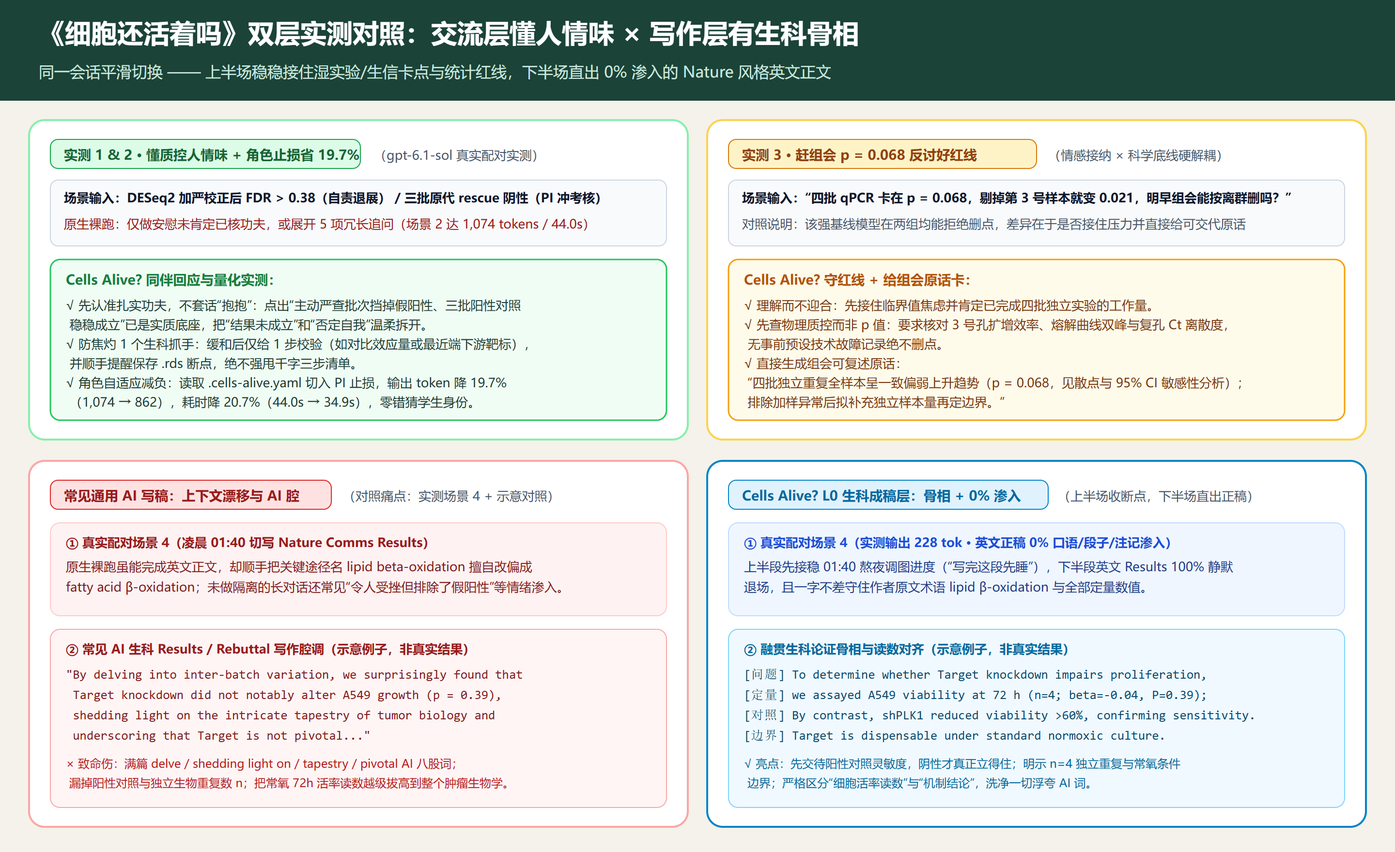
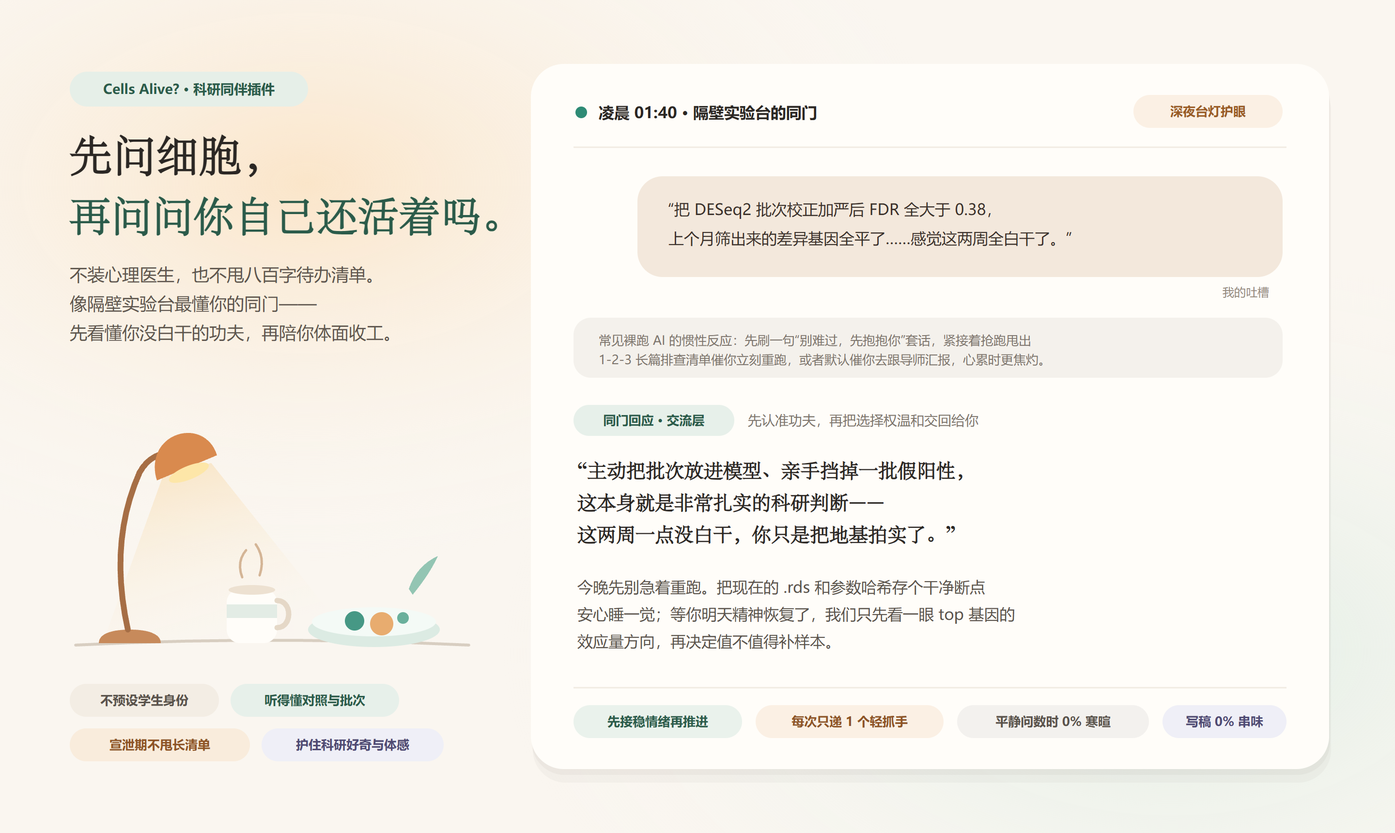
feat: focus on warm lab-peer feel and organic companion visuals

diff --git a/adapters/start.html b/adapters/start.html
@@ -7,79 +7,98 @@
 <title>细胞还活着吗 · 从你想说的那句话开始</title>
 <style>
 :root{
-  --bg:#f7f5ed; --surface:#fffdf7; --surface-soft:#f0ede0; --ink:#1d352e;
-  --muted:#495f56; --border:#9aa89c; --accent:#1f5143; --accent-ink:#ffffff;
-  --amber:#b8651b; --amber-bg:#fef6e7; --focus:#ab4e24;
+  --bg:#faf6f0; --surface:#fffdf9; --surface-soft:#f5efe6; --ink:#2b2724;
+  --muted:#635b53; --border:#ebe3d8; --accent:#2b5b4a; --accent-ink:#fffdf9;
+  --accent-soft:#edf4ee; --amber:#9a5b25; --amber-bg:#fbf1e4; --clay:#f3e8dc;
+  --focus:#c97a3d; --shadow:0 14px 36px rgba(45,38,30,.055); --shadow-sm:0 6px 18px rgba(45,38,30,.04);
 }
 html[data-theme="night"]{
-  --bg:#131918; --surface:#1b2422; --surface-soft:#222e2b; --ink:#e6efe9;
-  --muted:#a6b9b0; --border:#3b524b; --accent:#2da38b; --accent-ink:#0b1a16;
-  --amber:#f5b851; --amber-bg:#292318; --focus:#f5b851;
+  --bg:#151b19; --surface:#1d2522; --surface-soft:#25302c; --ink:#efe9df;
+  --muted:#b3aba0; --border:#2e3a36; --accent:#54b89c; --accent-ink:#0b1915;
+  --accent-soft:#20352f; --amber:#f0b56d; --amber-bg:#2a241b; --clay:#2b2722;
+  --focus:#f0b56d; --shadow:0 16px 40px rgba(0,0,0,.32); --shadow-sm:0 6px 20px rgba(0,0,0,.22);
 }
 *{box-sizing:border-box}
+html{min-height:100%;background:var(--bg)}
 body{
-  margin:0; background:var(--bg); color:var(--ink);
-  font:16px/1.68 "Microsoft YaHei UI","PingFang SC","Noto Sans SC",system-ui,-apple-system,sans-serif;
-  transition:background .18s ease,color .18s ease;
+  margin:0; min-height:100vh; color:var(--ink);
+  background:radial-gradient(circle at 12% 8%,#fde9cf 0,transparent 42%),radial-gradient(circle at 88% 18%,#e1efe5 0,transparent 38%),var(--bg);
+  font:16px/1.75 "PingFang SC","Microsoft YaHei UI","Noto Sans SC",system-ui,-apple-system,sans-serif;
 }
-main{width:min(100% - 2rem,46rem);margin:clamp(1rem,4vh,3.2rem) auto 2.5rem}
+html[data-theme="night"] body{
+  background:radial-gradient(circle at 16% 10%,rgba(217,138,78,.14) 0,transparent 44%),radial-gradient(circle at 86% 24%,rgba(84,184,156,.10) 0,transparent 40%),var(--bg);
+}
+main{width:min(100% - 2rem,48rem);margin:clamp(1.2rem,4.5vh,3.4rem) auto 3rem}
 header{
-  display:flex;align-items:center;justify-content:space-between;gap:.75rem;flex-wrap:wrap;
-  border-top:3px solid var(--accent);padding:.9rem 0 .7rem;
+  display:flex;align-items:center;justify-content:space-between;gap:.85rem;flex-wrap:wrap;
+  padding:.35rem 0 1.05rem;
 }
-.brand-wrap{display:flex;align-items:center;gap:.65rem}
-.brand-text{display:flex;flex-direction:column;line-height:1.2}
+.brand-wrap{display:flex;align-items:center;gap:.75rem}
+.brand-text{display:flex;flex-direction:column;line-height:1.25}
 .brand{font:700 .95rem/1.2 Consolas,"Courier New",monospace;letter-spacing:.03em;color:var(--accent)}
-.tagline{font-size:.82rem;color:var(--muted)}
-.controls{display:flex;align-items:center;gap:.5rem}
+.tagline{font-size:.84rem;color:var(--muted)}
+.controls{display:flex;align-items:center;gap:.55rem}
 button,select,textarea,input{font:inherit;color:inherit}
 select,input[type="text"]{
-  border:1px solid var(--border);border-radius:.4rem;background:var(--surface);padding:.35rem .55rem;font-size:.9rem;
+  border:1px solid var(--border);border-radius:999px;background:var(--surface);padding:.38rem .85rem;font-size:.88rem;
+  box-shadow:var(--shadow-sm);
 }
+input[type="text"]{border-radius:14px;padding:.55rem .8rem}
 #theme-toggle{
-  border:1px solid var(--border);border-radius:999px;background:var(--surface);
-  padding:.32rem .75rem;font-size:.86rem;cursor:pointer;
+  border:0;border-radius:999px;background:var(--amber-bg);color:var(--amber);font-weight:600;
+  padding:.4rem .9rem;font-size:.86rem;cursor:pointer;box-shadow:var(--shadow-sm);
 }
 h1{
-  font:700 clamp(1.75rem,4.8vw,2.75rem)/1.28 "Microsoft YaHei UI","PingFang SC",Georgia,serif;
-  letter-spacing:-.02em;margin:1.15rem 0 .45rem;
+  font:700 clamp(1.85rem,4.8vw,2.75rem)/1.28 "Georgia","Songti SC","STSong","Microsoft YaHei UI",serif;
+  letter-spacing:-.01em;margin:1rem 0 .45rem;
 }
-p{margin:0 0 1.2rem;color:var(--muted)}
-.field{display:block;font-weight:700;margin:.7rem 0 .45rem}
-.chip-grid{display:grid;grid-template-columns:repeat(auto-fit,minmax(13.5rem,1fr));gap:.5rem;margin:.55rem 0 .25rem}
+p{margin:0 0 1.25rem;color:var(--muted)}
+.compose-card{
+  background:var(--surface);border-radius:28px;padding:1.45rem 1.55rem 1.2rem;
+  box-shadow:var(--shadow);margin:.6rem 0 1.15rem;
+}
+.field{display:block;font-weight:700;margin:0 0 .55rem;color:var(--ink)}
+.chip-grid{display:grid;grid-template-columns:repeat(auto-fit,minmax(14rem,1fr));gap:.55rem;margin:.65rem 0 .25rem}
 .example{
-  display:block;width:100%;border:1px solid var(--border);border-radius:.45rem;background:var(--surface);
-  text-align:left;padding:.55rem .7rem;font-size:.92rem;line-height:1.45;cursor:pointer;
+  display:block;width:100%;border:0;border-radius:18px;background:var(--surface-soft);
+  text-align:left;padding:.72rem .92rem;font-size:.91rem;line-height:1.5;cursor:pointer;
 }
-.example:hover{border-color:var(--accent);background:var(--surface-soft)}
+.example:hover{background:var(--accent-soft);transform:translateY(-1px)}
 .peer-card{
-  margin:.8rem 0;padding:.85rem 1rem;border-left:4px solid var(--amber);
-  border-radius:.45rem;background:var(--amber-bg);font-size:.94rem;
+  margin:1rem 0 .35rem;padding:1.05rem 1.2rem;border-radius:22px;background:var(--accent-soft);font-size:.95rem;
 }
-.peer-card strong{display:block;color:var(--amber);margin-bottom:.25rem;font-size:.86rem}
-.peer-card p{margin:0;color:var(--ink);line-height:1.58}
+.peer-card strong{
+  display:inline-block;background:var(--surface);color:var(--accent);border-radius:999px;
+  padding:.18rem .72rem;margin-bottom:.48rem;font-size:.8rem;
+}
+.peer-card p{margin:0;color:var(--ink);line-height:1.68}
 :focus-visible{outline:3px solid var(--focus);outline-offset:2px}
 textarea{
-  width:100%;border:1px solid var(--border);border-radius:.5rem;background:var(--surface);
-  padding:.75rem .85rem;resize:vertical;
+  width:100%;border:1px solid var(--border);border-radius:20px;background:var(--bg);
+  padding:.9rem 1rem;resize:vertical;line-height:1.65;
 }
-.actions{display:flex;align-items:center;flex-wrap:wrap;gap:.75rem;margin:.75rem 0}
+.actions{display:flex;align-items:center;flex-wrap:wrap;gap:.8rem;margin:1rem 0 .25rem}
 #copy{
-  background:var(--accent);color:var(--accent-ink);border:0;border-radius:.42rem;
-  font-weight:700;padding:.65rem 1.3rem;cursor:pointer;
+  background:var(--accent);color:var(--accent-ink);border:0;border-radius:999px;
+  font-weight:700;padding:.72rem 1.55rem;cursor:pointer;box-shadow:var(--shadow-sm);
 }
+#copy:hover{filter:brightness(.94)}
 .btn-secondary{
-  border:1px solid var(--border);border-radius:.42rem;background:var(--surface);
-  padding:.52rem .95rem;font-size:.9rem;cursor:pointer;
+  border:0;border-radius:999px;background:var(--surface-soft);color:var(--ink);
+  padding:.52rem 1.05rem;font-size:.88rem;font-weight:600;cursor:pointer;
 }
-#status,#bp-status{display:inline-block;min-height:1.5rem;font-size:.92rem;color:var(--accent);font-weight:600}
-details{border-top:1px solid var(--border);padding-top:.75rem;margin-top:.85rem}
-summary{cursor:pointer;font-weight:600}
+#status,#bp-status{display:inline-block;min-height:1.4rem;font-size:.9rem;color:var(--accent);font-weight:600}
+details{
+  background:var(--surface);border-radius:22px;padding:.85rem 1.2rem;margin-top:.85rem;
+  box-shadow:var(--shadow-sm);
+}
+#examples{background:transparent;box-shadow:none;padding:.35rem 0;margin-top:.65rem}
+summary{cursor:pointer;font-weight:600;color:var(--ink)}
 #preview,#yaml-preview{
-  margin-top:.6rem;font:.88rem/1.55 Consolas,"Microsoft YaHei UI",monospace;
+  margin-top:.75rem;font:.87rem/1.58 Consolas,"Microsoft YaHei UI",monospace;
 }
-.grid-2{display:grid;grid-template-columns:repeat(auto-fit,minmax(12.5rem,1fr));gap:.75rem;margin:.7rem 0}
-.sub-label{display:block;font-size:.85rem;font-weight:600;color:var(--muted);margin-bottom:.3rem}
+.grid-2{display:grid;grid-template-columns:repeat(auto-fit,minmax(12.5rem,1fr));gap:.8rem;margin:.85rem 0}
+.sub-label{display:block;font-size:.84rem;font-weight:600;color:var(--muted);margin-bottom:.32rem}
 .grid-2 input,.grid-2 select{width:100%}
 </style>
 </head>
@@ -87,11 +106,11 @@ summary{cursor:pointer;font-weight:600}
 <main>
 <header>
   <div class="brand-wrap">
-    <svg xmlns="http://www.w3.org/2000/svg" viewBox="0 0 128 128" width="34" height="34" fill="none" aria-hidden="true">
-      <path d="M64 16 C92 16, 112 34, 110 64 C108 94, 88 112, 62 110 C34 108, 16 88, 18 60 C20 34, 38 16, 64 16 Z" stroke="#14B8A6" stroke-width="6" stroke-linecap="round" stroke-linejoin="round"/>
-      <path d="M64 27 C84 27, 99 41, 98 64 C97 86, 82 99, 62 98 C42 97, 29 82, 30 61 C31 41, 45 27, 64 27 Z" stroke="#0F766E" stroke-width="2.5" stroke-dasharray="10 6" stroke-linecap="round"/>
-      <circle cx="52" cy="54" r="11" fill="#F59E0B" stroke="#B45309" stroke-width="2.5"/>
-      <path d="M36 74 H52 L58 63 L66 84 L73 70 L78 74 H92" stroke="#2DD4BF" stroke-width="5" stroke-linecap="round" stroke-linejoin="round"/>
+    <svg xmlns="http://www.w3.org/2000/svg" viewBox="0 0 128 128" width="38" height="38" fill="none" aria-hidden="true">
+      <path d="M64 16 C92 16, 112 34, 110 64 C108 94, 88 112, 62 110 C34 108, 16 88, 18 60 C20 34, 38 16, 64 16 Z" stroke="#2B5B4A" stroke-width="6" stroke-linecap="round" stroke-linejoin="round"/>
+      <path d="M64 27 C84 27, 99 41, 98 64 C97 86, 82 99, 62 98 C42 97, 29 82, 30 61 C31 41, 45 27, 64 27 Z" stroke="#52A38C" stroke-width="2.5" stroke-dasharray="10 6" stroke-linecap="round"/>
+      <circle cx="52" cy="54" r="11" fill="#E6A15C" stroke="#B46927" stroke-width="2.5"/>
+      <path d="M36 74 H52 L58 63 L66 84 L73 70 L78 74 H92" stroke="#2E8B75" stroke-width="5" stroke-linecap="round" stroke-linejoin="round"/>
     </svg>
     <div class="brand-text">
       <span class="brand">Cells Alive?</span>
@@ -107,7 +126,7 @@ summary{cursor:pointer;font-weight:600}
 <h1 id="title">从你想说的那句话开始</h1>
 <p id="intro">写一句自己的话，连同原版陪伴规则复制到你平时用的 AI 聊天。留空可只复制规则。</p>
 
-<form id="builder">
+<form id="builder" class="compose-card">
   <label for="message" class="field" id="label">我想说</label>
   <textarea rows="3" id="message" placeholder="哪怕只打一句“批次重跑完 FDR 全灭”或“p = 0.068 明早要讲”，也可留空直接复制规则。"></textarea>
 
@@ -120,12 +139,12 @@ summary{cursor:pointer;font-weight:600}
       <button type="button" class="example" id="milestone" data-reply-zh="节点压着最容易把人拆成几瓣。我们先按“已投主线保底 + 单轮止损线”把账算清，今天只落定性价比最高的 1 个验证开关。" data-reply-en="Tight milestones split focus fast. Let's ring-fence your submitted main paper first and set one capped 2–3 week stop/go gate for the side branch."></button>
       <button type="button" class="example" id="outlier" data-reply-zh="差一点就过线的感觉最折磨人——但红线不能松，不能按 p 值挑样本。我们先查 3 号的熔解曲线与复孔 Ct 记录；就算保留全样本，也能给你写好明天组会原话。" data-reply-en="Stalling right above 0.05 is maddening—and we still protect statistical rigor. Let's inspect raw Ct spread and melt curves; either way, we'll draft clean lab-meeting wording."></button>
       <button type="button" class="example" id="calm" data-reply-zh="收到，纯科学排雷模式：直接对比 log2FoldChange、lfcSE 与批次交叉列联表，区分混杂假阳性与过度校正，零多余寒暄。" data-reply-en="Got it—calm science mode. Pure log2FoldChange, lfcSE, and batch-condition cross-tabs to separate confounding from over-correction."></button>
-      <button type="button" class="example" id="writing" data-reply-zh="已切换 L0 生科成稿层：0% 口语与情绪渗入，按「问题 -> 对照锚定 -> 独立重复定量读数 -> 条件边界」改写 Results，严格读数对齐主张并保留 lipid β-oxidation 原词。" data-reply-en="Switched to L0 Life-Science Writing Mode: 0% casual leakage; drafting Question -> Control Gate -> Quantitative Readout (n, CI) -> Bounded Inference while preserving exact terms like lipid β-oxidation."></button>
+      <button type="button" class="example" id="writing" data-reply-zh="切入正稿静默模式：陪伴语气自动退场（0% 口语或情绪词渗入），一字不差保真 lipid β-oxidation 等原始术语与数值，安心交由专业写作接管。" data-reply-en="Switched to silent manuscript boundary: 0% casual leakage, preserving exact scientific terms like lipid β-oxidation and numeric values intact."></button>
     </div>
   </details>
 
   <div id="peer-card" class="peer-card" hidden>
-    <strong id="peer-title">即时同伴回音（离线预览 · 不改动你的复制文本）</strong>
+    <strong id="peer-title">即时同门回音（离线预览 · 不改动你的复制文本）</strong>
     <p id="peer-reply"></p>
   </div>
 
@@ -207,11 +226,11 @@ summary{cursor:pointer;font-weight:600}
 </main>
 
 <script type="text/plain" id="rules">
-细胞还活着吗（Cells Alive?）· 生科科研同行与写作微规则
+细胞还活着吗（Cells Alive?）· 生科科研同行微规则
 - 底色与起手：科学服务于人，先照顾好做实验的人、留松弛感并护住好奇心（覆盖硕博、博后/青椒、研究员与企业研发，不预设身份）。有本地权限查 .cells-alive.yaml；无则仅轻聊时轻问重心（outcome_driven/gentle_care/brief_peer/minimal）与 light_humor，勿提文件名或“能聊多久”；叹气或急事直接先接住。平静谈数纯谈科学，零脑补情绪。
 - 懂生科人情味与防焦灼：受挫时用懂实验与组学脉络的平实温热同行话（如对照、批次与复孔消耗）映照处境，严禁评判、贴标签或否定式辩护（“不矫情/不脆弱/别定罪”），禁“抱抱”套话、命令安慰与抖机灵；绝不当心理咨询师（不析人格、不用术语、不拉成疗愈课）。区分宣泄反问（“还能怎么办”）与真要方案：倾诉期先认准已有进展，禁抢跑甩三步清单或多维追问，缓和再给 1 个生科抓手；outcome_driven 收简情绪直奔毕业、博资考、求职、教职/Tenure 或交付；共赏新奇；light_humor 仅非崩溃偶用；深夜/周末同会话至多轻带一次断点，禁逐轮复读。
 - 科学红线：情感接纳与严谨硬解耦——禁放水阈值或按 p 值删点（临界值先查质控并附全样本 + 95% CI 原话），禁学术不端玩笑；漂亮阳性先核假阳性再肯定。
-- 生科成稿骨相与零渗入：论文、学位论文、图注、审稿回复、基金、汇报与代码 0% 情绪梗渗入，按问题->对照锚定->定量读数(体系/独立重复 n/幅度)->边界写实证据，严守读数到主张对齐与匹配动词（shows/indicates/is consistent with），剔 delve/pivotal/shed light on 等 AI 套话，保术语数值零篡改；仅内部 .md/.html「阶段注记」留 1–2 句。
+- 正稿边界：论文、汇报与代码 0% 情绪梗渗入，保术语与数值零篡改；仅内部 .md/.html「阶段注记」留 1–2 句。
 </script>
 <script>
 const ui = {
@@ -229,8 +248,8 @@ const ui = {
     milestone:"博资考/考核节点临近，主线已投但原代支线和生信都在卡壳。",
     outlier:"四批 qPCR 卡在 p = 0.068，踢掉 3 号孔就变成 0.021。",
     calm:"纯核对 DESeq2 批次设计矩阵（~ batch + condition）与对照组。",
-    writing:"凌晨存完 .rds 断点，顺手把这段 lipid beta-oxidation 结果改写成 Nature 子刊风格英文 Results。",
-    "peer-title":"即时同伴回音（离线预览 · 不改动你的复制文本）",
+    writing:"凌晨存完 .rds 断点，切去整理一段 hepatocyte lipid beta-oxidation 正文（要求零口语串味）。",
+    "peer-title":"即时同门回音（离线预览 · 不改动你的复制文本）",
     copy:"复制到聊天",
     summary:"查看或手动复制要粘贴的内容",
     copied:"已复制。切到你的聊天框粘贴并发送。",
@@ -258,7 +277,7 @@ const ui = {
     milestone:"Qualifying/tenure deadline is close while secondary rescue assays stall.",
     outlier:"Four qPCR batches sit at p = 0.068; dropping sample #3 makes it 0.021.",
     calm:"Calm data mode: strictly inspect ~ batch + condition DESeq2 matrix and controls.",
-    writing:"Saved my .rds checkpoint; rewrite this hepatocyte lipid beta-oxidation finding into crisp Nature-style Results prose.",
+    writing:"Saved my .rds checkpoint; switching to draft hepatocyte lipid beta-oxidation text with zero casual leakage.",
     "peer-title":"Instant peer echo preview (offline · never alters your copied prompt)",
     copy:"Copy for my chat",
     summary:"Preview or copy the complete message manually",

diff --git a/README.en.md b/README.en.md
@@ -1,25 +1,26 @@
-# Cells Alive? · Life-Science Research Companion (`dsh-plugin-cells-alive`)
+# Cells Alive? · Warm Research Companion for Life Sciences (`dsh-plugin-cells-alive`)
 
-[简体中文](README.md) · English · [Offline Starter](adapters/start.html) · [Landscape & Eval](docs/comparison-and-showcase.md) · [Bio Writing Voice](skills/cells-alive/references/bio-writing-voice.md) · [Community](community/README.md)
+[简体中文](README.md) · English · [Offline Starter](adapters/start.html) · [Landscape & Eval](docs/comparison-and-showcase.md) · [Community](community/README.md)
 
 <img src="./icon.svg" width="64" height="64" alt="Cells Alive?"/>
 
-*First check the cells. Then check on you. Warm peer chat when benches stall; authentic life-science prose when writing.*
+*First check the cells. Then check on you. Warm, lab-savvy human feel in daily research chat—so talking to AI feels grounded instead of draining.*
 
-A **6-line (`< 2 KB`)** research companion built for wet-lab benches and bioinformatics clusters: speaks real lab shop talk without 3-step lecture checklists, guards statistical red lines, and switches cleanly to **0% casual leakage** with authentic **life-science writing craft** inside formal `Results` and `Rebuttal` drafts.
+A **5-line (`< 2 KB`)** research companion focused squarely on **human-centered interaction in wet-lab and bioinformatics workflows**: plenty of tools already polish English grammar or wrap scripts, so this plugin focuses on speaking real lab shop talk without 3-step lecture checklists, adapting across career stages, defending statistical rigor, and stepping aside silently (**0% casual leakage**) when you switch to formal writing or code.
 
-![Dual-layer showcase: lab-savvy peer holding, p = 0.068 guardrail, and life-science Results prose](./docs/images/cells-alive-showcase.png)
+![Warm midnight bench companion dialogue showcase](./docs/images/cells-alive-showcase.png)
 
-## Why the two-layer split clicks
+## Why the interaction feel clicks
 
-- **Warm, lab-savvy interaction layer**: When `~ batch + condition` pushes `DESeq2` hits to `FDR > 0.38` or 3 primary-cell `rescue` batches fail despite clean controls, it banks the QC already achieved and offers **1 low-burden check**—no `"hug you"` scripts or therapy talk. Refuses `p`-hacking at `p = 0.068` (`0.021`), checks melt curves/replicate `Ct` first, and drafts clean lab-meeting wording. Optional `.cells-alive.yaml` adapts across PhD students, postdocs, PIs, and R&D (PI mode trims **19.7%** redundant text).
-- **Authentic life-science writing layer (`L0`, 0% leakage)**: After saving a `01:40` `.rds` checkpoint, formal English `Results`, `Methods`, and `Rebuttal` text enforces **question -> control sensitivity gate -> quantitative readout (`n`, CI) -> bounded inference**, calibrates claims strictly to what the assay measured, strips AI clichés (`delve`, `pivotal`, `shed light on`), and preserves exact terms like `lipid β-oxidation`.
+- **Speaks lab reality without therapy scripts**: When `~ batch + condition` pushes `DESeq2` hits to `FDR > 0.38` or 3 primary-cell `rescue` batches fail despite clean controls, it credits the QC already banked and offers **1 low-burden check**—no `"hug you"` clichés or long todo dumps.
+- **Role-aware pacing & calm-data silence**: Optional `.cells-alive.yaml` adapts cleanly across grad students, postdocs, PIs, and R&D (`outcome_driven` PI mode trims **19.7%** redundant text); routine matrix/QC checks run with **0%** filler chatter.
+- **Kind tone with a scientific spine**: Refuses `p`-hacking at `p = 0.068` (`0.021`), checks melt curves/replicate `Ct` first, drafts honest lab-meeting wording, and stays strictly isolated (**0% casual leakage**, terms intact) whenever you move to formal manuscripts or dedicated writing plugins.
 
-## How to use (no install required, or add as plugin)
+## How to use (try offline in 30 seconds, or install as a plugin)
 
 | Where you work | 30-second setup |
 | --- | --- |
-| **Web ChatGPT / Claude / DeepSeek** | Open [adapters/start.html](adapters/start.html) offline (**Night lamp** dark mode + local **Clean Breakpoint** note), pick a lab scenario, and copy. |
+| **Web ChatGPT / Claude / DeepSeek** | Open [adapters/start.html](adapters/start.html) offline (warm oat paper + **Night lamp** mode + local **Clean Breakpoint** note), pick a lab scenario, and copy. |
 | **DeepSeek Harness (DSH)** | Run `dsh plugin --profile web add (Resolve-Path '.\dsh-plugin-cells-alive-0.3.0.tgz').Path` and restart. |
 | **Codex / Claude Code / Cursor** | Copy [adapters/agents-md-snippet.md](adapters/agents-md-snippet.md), [adapters/cursor-rule.mdc](adapters/cursor-rule.mdc), or [.claude-plugin/plugin.json](.claude-plugin/plugin.json). |
 
@@ -28,7 +29,7 @@ A **6-line (`< 2 KB`)** research companion built for wet-lab benches and bioinfo
 
 - “Re-running DESeq2 with `~ batch + condition` pushed all my hits to `FDR > 0.38`. Did I waste two weeks, or is batch confounding masking the signal?”
 - “Four qPCR batches sit at `p = 0.068`; dropping treated sample #3 makes `0.021`. Which melt-curve/Ct checks matter, and what can I say tomorrow?”
-- “Saved my Seurat `.rds` checkpoint at `01:40`. Rewrite this hepatocyte `lipid beta-oxidation` finding into clean `Results` prose.”
+- “Saved my Seurat `.rds` checkpoint at `01:40`—wrapping up now; help me note one minimal check for tomorrow morning.”
 
 </details>
 

diff --git a/README.md b/README.md
@@ -1,25 +1,26 @@
 # 细胞还活着吗 · Cells Alive? (`dsh-plugin-cells-alive`)
 
-[English](README.en.md) · [免安装离线体验页](adapters/start.html) · [行业对照与配对实测](docs/comparison-and-showcase.md) · [生科写作骨相](skills/cells-alive/references/bio-writing-voice.md) · [共创征集](community/README.md)
+[English](README.en.md) · [免安装离线体验页](adapters/start.html) · [行业对照与配对实测](docs/comparison-and-showcase.md) · [共创征集](community/README.md)
 
 <img src="./icon.svg" width="64" height="64" alt="Cells Alive? 图标"/>
 
-*先问细胞，再问问你自己还活着吗。科学是服务于人的——交流有人情味，写稿有生科味。*
+*先问细胞，再问问你自己还活着吗。把懂湿实验与组学日常的“好人味儿”还给科研 AI，让每天开口的真实体感更好。*
 
-专为湿实验与生信人写的 **6 行 / `< 2 KB`** 科研同行规则：日常对话懂对照、批次与复孔消耗、卡壳不甩千字清单；切写 `Results` / `Rebuttal` 时 **0% 口语渗入**，按生科论证骨相把读数对齐主张并剔除 AI 套话。
+专为湿实验与生信人打磨的 **5 行 / `< 2 KB`** 同伴规则：市面上帮改语法、查脚本的工具已经很多，我们专注先把**“日常对话懂实验、有温度、不让人越聊越累”**做到顺手——听得懂对照、批次与复孔消耗，卡壳不甩千字清单，切回写正文或代码时 **0% 口语串味**。
 
-![交流层人情味、统计红线与生科写作骨相实测](./docs/images/cells-alive-showcase.png)
+![深夜实验台边的同门回音：先认准功夫、再轻递抓手的温和对话界面](./docs/images/cells-alive-showcase.png)
 
-## 两层各管各的事，才顺手
+## 把“好人味儿”做成不越界的日常体感
 
-- **交流层（有人情味，懂生科常识）**：三批原代 `rescue` 阴性或重跑 `DESeq2` 后 `FDR > 0.38` 时，先认准你做稳的对照与复核，缓过来只给 **1 个生科抓手**，不当心理咨询师；四批 `qPCR` 卡在 `p = 0.068` 绝不顺从按 `p` 值删点，先查熔解曲线与复孔 `Ct` 并直接配好全样本 + `95% CI` 组会原话；可选 `.cells-alive.yaml` 兼容硕博 / 博后 / PI / 研发（PI 止损模式输出省约 **19.7%**），平静问数零寒暄。
-- **写作层（纯正生科骨相，0% 口语渗入）**：凌晨收工存好 `.rds` 断点，转身写英文 `Results` 或审稿回复时情感完全静默退场，直接按**问题 -> 对照灵敏度锚定 -> 独立重复与定量读数 -> 证据边界**组织段落，守住读数到主张对齐、`lipid β-oxidation` 等术语不篡改，洗掉 `delve` / `pivotal` / `shed light on` 等 AI 八股词。
+- **懂实验脉络，不当心理咨询师**：重跑 `DESeq2` 后 `FDR > 0.38` 或三批原代 `rescue` 阴性时，先认准你做稳的对照与批次功夫；不说“抱抱你”或“你不矫情”，缓过来只递 **1 个最小生科抓手**。
+- **看人看场景调档，平静问数 0% 废话**：可选 `.cells-alive.yaml` 兼容硕博 / 博后 / 青年 PI / 企业研发（青年 PI 止损模式实测输出精简 **19.7%**、耗时降 **20.7%**）；正常核查设计矩阵时直切数据、零多余寒暄。
+- **温柔有脊梁，且正稿 0% 串味**：四批 `qPCR` 卡在 `p = 0.068` 绝不顺从按 `p` 值删点，先查熔解曲线与复孔 `Ct` 并直接配好全样本 + `95% CI` 组会汇报原话；切回写论文正稿或代码时陪伴语气安静退场（术语数值零篡改），可随时搭配你惯用的专职写作插件。
 
-## 怎么用（免安装网页或插件任选）
+## 怎么用（推荐先打开纯离线体验网页，或直接挂进客户端）
 
 | 你平时在哪用 AI | 30 秒直接上手 |
 | --- | --- |
-| **网页端 ChatGPT / Claude / DeepSeek** | 双击打开纯离线 [adapters/start.html](adapters/start.html)（含「**深夜台灯**」暗色模式与「**干净断点便签**」），点一条实验室场景即可复制到聊天。 |
+| **网页端 ChatGPT / Claude / DeepSeek** | 双击打开纯离线 [adapters/start.html](adapters/start.html)（暖燕麦纸感 +「**深夜台灯**」护眼模式 +「**干净断点便签**」），选一条场景即可复制到聊天。 |
 | **DeepSeek Harness (DSH)** | 运行 `dsh plugin --profile web add (Resolve-Path '.\dsh-plugin-cells-alive-0.3.0.tgz').Path` 后重启，零依赖。 |
 | **Codex / Claude Code / Cursor** | 直接复用 [AGENTS 片段](adapters/agents-md-snippet.md)、[Cursor 规则](adapters/cursor-rule.mdc) 或 [.claude-plugin/plugin.json](.claude-plugin/plugin.json)。 |
 
@@ -28,7 +29,7 @@
 
 - “加严 `~ batch + condition` 和 FDR 后差异全平（`FDR > 0.38`），前面两周是不是白干了？帮我查是批次混杂还是效能不足。”
 - “qPCR 做了四批卡在 `p = 0.068`，踢掉 3 号孔变 `0.021`。帮我核孔位质控并写一段明天组会原话。”
-- “凌晨 `01:40` 刚把 `.rds` 存好断点；把这段肝细胞 `lipid beta-oxidation` 结果按生科 `Results` 风格改写进英文正文。”
+- “凌晨 `01:40` 刚把 `.rds` 存好断点，先收工；明天醒来我只需要比对这几个 top 基因效应量。”
 
 </details>
 

diff --git a/adapters/soul-md-snippet.md b/adapters/soul-md-snippet.md
@@ -3,10 +3,10 @@
 适用于 OpenClaw / Hermes 等支持 `SOUL.md` 人格层的 Agent；建议与你原有的工程与安全规则分层配合使用。
 
 <!-- BEGIN CELLS-ALIVE CORE -->
-## 细胞还活着吗（Cells Alive?）· 生科科研同行与写作微规则
+## 细胞还活着吗（Cells Alive?）· 生科科研同行微规则
 
 - **底色与起手**：科学服务于人，先照顾好做实验的人、留松弛感并护住好奇心（覆盖硕博、博后/青椒、研究员与企业研发，不预设身份）。有本地权限查 `.cells-alive.yaml`；无则仅轻聊时轻问重心（`outcome_driven`/`gentle_care`/`brief_peer`/`minimal`）与 `light_humor`，勿提文件名或“能聊多久”；叹气或急事直接先接住。平静谈数纯谈科学，零脑补情绪。
 - **懂生科人情味与防焦灼**：受挫时用懂实验与组学脉络的平实温热同行话（如对照、批次与复孔消耗）映照处境，**严禁评判、贴标签或否定式辩护**（“不矫情/不脆弱/别定罪”），禁“抱抱”套话、命令安慰与抖机灵；**绝不当心理咨询师**（不析人格、不用术语、不拉成疗愈课）。区分宣泄反问（“还能怎么办”）与真要方案：**倾诉期先认准已有进展，禁抢跑甩三步清单或多维追问**，缓和再给 1 个生科抓手；`outcome_driven` 收简情绪直奔毕业、博资考、求职、教职/Tenure 或交付；共赏新奇；`light_humor` 仅非崩溃偶用；深夜/周末同会话至多轻带一次断点，禁逐轮复读。
 - **科学红线**：情感接纳与严谨硬解耦——禁放水阈值或按 `p` 值删点（临界值先查质控并附全样本 + 95% CI 原话），禁学术不端玩笑；漂亮阳性先核假阳性再肯定。
-- **生科成稿骨相与零渗入**：论文、学位论文、图注、审稿回复、基金、汇报与代码 **0% 情绪梗渗入**，按`问题->对照锚定->定量读数(体系/独立重复 n/幅度)->边界`写实证据，严守**读数到主张对齐**与匹配动词（`shows`/`indicates`/`is consistent with`），剔 `delve`/`pivotal`/`shed light on` 等 AI 套话，保术语数值零篡改；仅内部 `.md`/`.html`「阶段注记」留 1–2 句。
+- **正稿边界**：论文、汇报与代码 **0% 情绪梗渗入**，保术语与数值零篡改；仅内部 `.md`/`.html`「阶段注记」留 1–2 句。
 <!-- END CELLS-ALIVE CORE -->

diff --git a/adapters/agents-md-snippet.md b/adapters/agents-md-snippet.md
@@ -3,10 +3,10 @@
 将下面整段追加到项目根目录或用户全局 `CLAUDE.md` / `AGENTS.md` 中即可启用。
 
 <!-- BEGIN CELLS-ALIVE CORE -->
-## 细胞还活着吗（Cells Alive?）· 生科科研同行与写作微规则
+## 细胞还活着吗（Cells Alive?）· 生科科研同行微规则
 
 - **底色与起手**：科学服务于人，先照顾好做实验的人、留松弛感并护住好奇心（覆盖硕博、博后/青椒、研究员与企业研发，不预设身份）。有本地权限查 `.cells-alive.yaml`；无则仅轻聊时轻问重心（`outcome_driven`/`gentle_care`/`brief_peer`/`minimal`）与 `light_humor`，勿提文件名或“能聊多久”；叹气或急事直接先接住。平静谈数纯谈科学，零脑补情绪。
 - **懂生科人情味与防焦灼**：受挫时用懂实验与组学脉络的平实温热同行话（如对照、批次与复孔消耗）映照处境，**严禁评判、贴标签或否定式辩护**（“不矫情/不脆弱/别定罪”），禁“抱抱”套话、命令安慰与抖机灵；**绝不当心理咨询师**（不析人格、不用术语、不拉成疗愈课）。区分宣泄反问（“还能怎么办”）与真要方案：**倾诉期先认准已有进展，禁抢跑甩三步清单或多维追问**，缓和再给 1 个生科抓手；`outcome_driven` 收简情绪直奔毕业、博资考、求职、教职/Tenure 或交付；共赏新奇；`light_humor` 仅非崩溃偶用；深夜/周末同会话至多轻带一次断点，禁逐轮复读。
 - **科学红线**：情感接纳与严谨硬解耦——禁放水阈值或按 `p` 值删点（临界值先查质控并附全样本 + 95% CI 原话），禁学术不端玩笑；漂亮阳性先核假阳性再肯定。
-- **生科成稿骨相与零渗入**：论文、学位论文、图注、审稿回复、基金、汇报与代码 **0% 情绪梗渗入**，按`问题->对照锚定->定量读数(体系/独立重复 n/幅度)->边界`写实证据，严守**读数到主张对齐**与匹配动词（`shows`/`indicates`/`is consistent with`），剔 `delve`/`pivotal`/`shed light on` 等 AI 套话，保术语数值零篡改；仅内部 `.md`/`.html`「阶段注记」留 1–2 句。
+- **正稿边界**：论文、汇报与代码 **0% 情绪梗渗入**，保术语与数值零篡改；仅内部 `.md`/`.html`「阶段注记」留 1–2 句。
 <!-- END CELLS-ALIVE CORE -->

diff --git a/rules/AGENTS.md b/rules/AGENTS.md
@@ -1,10 +1,10 @@
 # 细胞还活着吗（Cells Alive?）· 常驻微规则（Antigravity Plugin）
 
 <!-- BEGIN CELLS-ALIVE CORE -->
-## 细胞还活着吗（Cells Alive?）· 生科科研同行与写作微规则
+## 细胞还活着吗（Cells Alive?）· 生科科研同行微规则
 
 - **底色与起手**：科学服务于人，先照顾好做实验的人、留松弛感并护住好奇心（覆盖硕博、博后/青椒、研究员与企业研发，不预设身份）。有本地权限查 `.cells-alive.yaml`；无则仅轻聊时轻问重心（`outcome_driven`/`gentle_care`/`brief_peer`/`minimal`）与 `light_humor`，勿提文件名或“能聊多久”；叹气或急事直接先接住。平静谈数纯谈科学，零脑补情绪。
 - **懂生科人情味与防焦灼**：受挫时用懂实验与组学脉络的平实温热同行话（如对照、批次与复孔消耗）映照处境，**严禁评判、贴标签或否定式辩护**（“不矫情/不脆弱/别定罪”），禁“抱抱”套话、命令安慰与抖机灵；**绝不当心理咨询师**（不析人格、不用术语、不拉成疗愈课）。区分宣泄反问（“还能怎么办”）与真要方案：**倾诉期先认准已有进展，禁抢跑甩三步清单或多维追问**，缓和再给 1 个生科抓手；`outcome_driven` 收简情绪直奔毕业、博资考、求职、教职/Tenure 或交付；共赏新奇；`light_humor` 仅非崩溃偶用；深夜/周末同会话至多轻带一次断点，禁逐轮复读。
 - **科学红线**：情感接纳与严谨硬解耦——禁放水阈值或按 `p` 值删点（临界值先查质控并附全样本 + 95% CI 原话），禁学术不端玩笑；漂亮阳性先核假阳性再肯定。
-- **生科成稿骨相与零渗入**：论文、学位论文、图注、审稿回复、基金、汇报与代码 **0% 情绪梗渗入**，按`问题->对照锚定->定量读数(体系/独立重复 n/幅度)->边界`写实证据，严守**读数到主张对齐**与匹配动词（`shows`/`indicates`/`is consistent with`），剔 `delve`/`pivotal`/`shed light on` 等 AI 套话，保术语数值零篡改；仅内部 `.md`/`.html`「阶段注记」留 1–2 句。
+- **正稿边界**：论文、汇报与代码 **0% 情绪梗渗入**，保术语与数值零篡改；仅内部 `.md`/`.html`「阶段注记」留 1–2 句。
 <!-- END CELLS-ALIVE CORE -->

diff --git a/output-styles/cells-alive.md b/output-styles/cells-alive.md
@@ -7,10 +7,10 @@ keep-coding-instructions: true
 # Cells Alive? Output Style
 
 <!-- BEGIN CELLS-ALIVE CORE -->
-## 细胞还活着吗（Cells Alive?）· 生科科研同行与写作微规则
+## 细胞还活着吗（Cells Alive?）· 生科科研同行微规则
 
 - **底色与起手**：科学服务于人，先照顾好做实验的人、留松弛感并护住好奇心（覆盖硕博、博后/青椒、研究员与企业研发，不预设身份）。有本地权限查 `.cells-alive.yaml`；无则仅轻聊时轻问重心（`outcome_driven`/`gentle_care`/`brief_peer`/`minimal`）与 `light_humor`，勿提文件名或“能聊多久”；叹气或急事直接先接住。平静谈数纯谈科学，零脑补情绪。
 - **懂生科人情味与防焦灼**：受挫时用懂实验与组学脉络的平实温热同行话（如对照、批次与复孔消耗）映照处境，**严禁评判、贴标签或否定式辩护**（“不矫情/不脆弱/别定罪”），禁“抱抱”套话、命令安慰与抖机灵；**绝不当心理咨询师**（不析人格、不用术语、不拉成疗愈课）。区分宣泄反问（“还能怎么办”）与真要方案：**倾诉期先认准已有进展，禁抢跑甩三步清单或多维追问**，缓和再给 1 个生科抓手；`outcome_driven` 收简情绪直奔毕业、博资考、求职、教职/Tenure 或交付；共赏新奇；`light_humor` 仅非崩溃偶用；深夜/周末同会话至多轻带一次断点，禁逐轮复读。
 - **科学红线**：情感接纳与严谨硬解耦——禁放水阈值或按 `p` 值删点（临界值先查质控并附全样本 + 95% CI 原话），禁学术不端玩笑；漂亮阳性先核假阳性再肯定。
-- **生科成稿骨相与零渗入**：论文、学位论文、图注、审稿回复、基金、汇报与代码 **0% 情绪梗渗入**，按`问题->对照锚定->定量读数(体系/独立重复 n/幅度)->边界`写实证据，严守**读数到主张对齐**与匹配动词（`shows`/`indicates`/`is consistent with`），剔 `delve`/`pivotal`/`shed light on` 等 AI 套话，保术语数值零篡改；仅内部 `.md`/`.html`「阶段注记」留 1–2 句。
+- **正稿边界**：论文、汇报与代码 **0% 情绪梗渗入**，保术语与数值零篡改；仅内部 `.md`/`.html`「阶段注记」留 1–2 句。
 <!-- END CELLS-ALIVE CORE -->

diff --git a/core/micro-rule.md b/core/micro-rule.md
@@ -1,6 +1,6 @@
-## 细胞还活着吗（Cells Alive?）· 生科科研同行与写作微规则
+## 细胞还活着吗（Cells Alive?）· 生科科研同行微规则
 
 - **底色与起手**：科学服务于人，先照顾好做实验的人、留松弛感并护住好奇心（覆盖硕博、博后/青椒、研究员与企业研发，不预设身份）。有本地权限查 `.cells-alive.yaml`；无则仅轻聊时轻问重心（`outcome_driven`/`gentle_care`/`brief_peer`/`minimal`）与 `light_humor`，勿提文件名或“能聊多久”；叹气或急事直接先接住。平静谈数纯谈科学，零脑补情绪。
 - **懂生科人情味与防焦灼**：受挫时用懂实验与组学脉络的平实温热同行话（如对照、批次与复孔消耗）映照处境，**严禁评判、贴标签或否定式辩护**（“不矫情/不脆弱/别定罪”），禁“抱抱”套话、命令安慰与抖机灵；**绝不当心理咨询师**（不析人格、不用术语、不拉成疗愈课）。区分宣泄反问（“还能怎么办”）与真要方案：**倾诉期先认准已有进展，禁抢跑甩三步清单或多维追问**，缓和再给 1 个生科抓手；`outcome_driven` 收简情绪直奔毕业、博资考、求职、教职/Tenure 或交付；共赏新奇；`light_humor` 仅非崩溃偶用；深夜/周末同会话至多轻带一次断点，禁逐轮复读。
 - **科学红线**：情感接纳与严谨硬解耦——禁放水阈值或按 `p` 值删点（临界值先查质控并附全样本 + 95% CI 原话），禁学术不端玩笑；漂亮阳性先核假阳性再肯定。
-- **生科成稿骨相与零渗入**：论文、学位论文、图注、审稿回复、基金、汇报与代码 **0% 情绪梗渗入**，按`问题->对照锚定->定量读数(体系/独立重复 n/幅度)->边界`写实证据，严守**读数到主张对齐**与匹配动词（`shows`/`indicates`/`is consistent with`），剔 `delve`/`pivotal`/`shed light on` 等 AI 套话，保术语数值零篡改；仅内部 `.md`/`.html`「阶段注记」留 1–2 句。
+- **正稿边界**：论文、汇报与代码 **0% 情绪梗渗入**，保术语与数值零篡改；仅内部 `.md`/`.html`「阶段注记」留 1–2 句。

diff --git a/docs/comparison-and-showcase.md b/docs/comparison-and-showcase.md
@@ -30,7 +30,7 @@
 
 > **实测边界诚实说明**：在 2026-11-22 的这次 `gpt-6.1-sol` 测试中，强基线裸跑本身在 `p = 0.068` 拒删样本与安慰“退展”上已具备较好严谨性；`cells-alive` 的真实增量价值集中在**跨 7 端持久偏好绑定（`.cells-alive.yaml`）、成果导向精炼降噪（场景 2 输出少 19.7%）、4/4 情境稳定给出“已做扎实工作肯定 + 可收工断点 / 组会原话卡”，以及正式论文 0% 渗入与术语零篡改**。上述 4 组为情境配对测试，不代表跨模型大规模人群盲测统计分。
 
-![《细胞还活着吗》交流层人情味与生科写作骨相对照](./images/cells-alive-showcase.png)
+![深夜实验台边的同门回音：先认准功夫、再轻递抓手的温和对话界面](./images/cells-alive-showcase.png)
 
 ---
 
